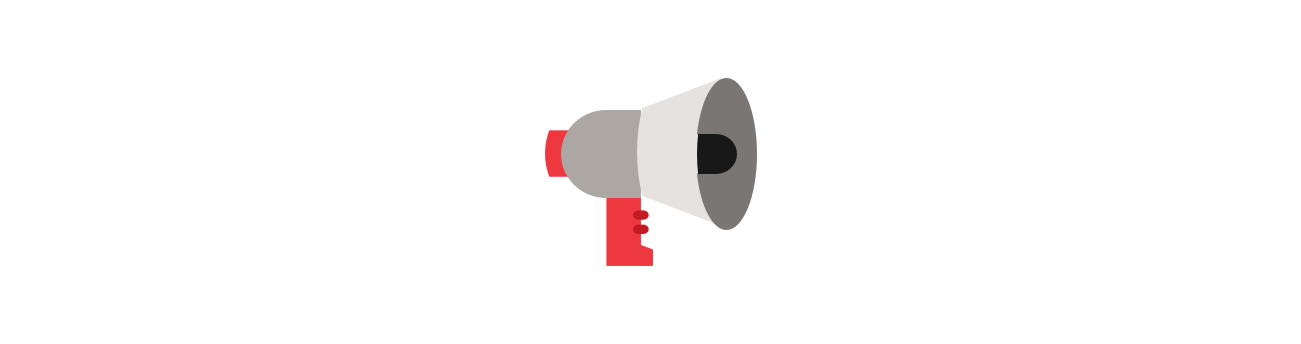
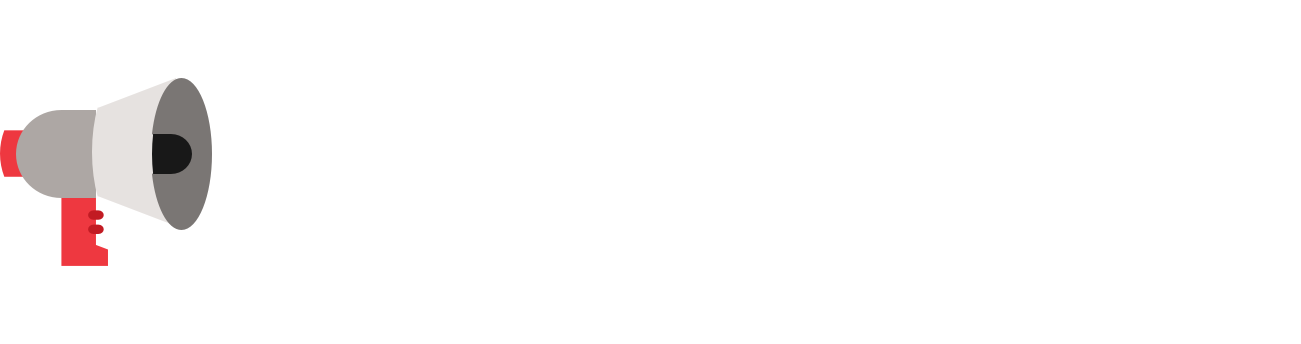
sherry publish

Changed region(s): [[0.0, 0.2326, 0.1845, 0.7849], [0.3997, 0.2326, 0.5842, 0.7849]]

diff --git a/_projects/2018-07-31-waking-up.md b/_projects/2018-07-31-waking-up.md
@@ -16,7 +16,7 @@ The <b>Waking Up</b> app is based on the smart home system. It's going to contro
 </p>
 
 
-![](/images/waking-up/1.jpg)
+![](/images/waking-up/header.png)
 
 
 
@@ -26,12 +26,16 @@ The <b>Waking Up</b> app is based on the smart home system. It's going to contro
 
 It is hard to <b> get out of your whole night sleep mode</b>. 
 <br>
+
 I still **have lots of stuff to do**
 <br>
+
 I **don't have a good mood** in dealing with these **daily-routines**
 <br>
+
 I always forget this or that, cause the **time is always in the rush**
 <br>
+
 The **living atmosphere** is **not motivated** and **humanized** enough for me to start a new day.
 
 <div class="gallery" data-columns="1">
@@ -88,22 +92,22 @@ The smart devices could be the **light, water boiler, google home, bathtub, oven
 
 ---
 
-<div class="gallery" data-columns="2">
-	<img src="//pro2-bar-s3-cdn-cf3.myportfolio.com/aff4a881fdbcdc5716b19e6a907e5a32/4d07c82c-658b-4072-a7e0-6de7f7f45c87_rw_1920.png?h=457d38a6c52a03846d95d4f11d90aa0c">
-	<img src="//pro2-bar-s3-cdn-cf5.myportfolio.com/aff4a881fdbcdc5716b19e6a907e5a32/665462a5-d2cf-4fdc-bb70-1361cc3db132_rw_1920.png?h=e72a51945935472e1acbeee355db74b6">
-	<img src="//pro2-bar-s3-cdn-cf4.myportfolio.com/aff4a881fdbcdc5716b19e6a907e5a32/543b5412-2f3b-43b4-a7ce-e19684cd2efa_rw_1920.png?h=9516d29c5e544c029bd0cbd88af551ff">
-	<img src="//pro2-bar-s3-cdn-cf6.myportfolio.com/aff4a881fdbcdc5716b19e6a907e5a32/05b3c730-ea53-4dfa-b668-b83e171c889d_rw_3840.jpg?h=23db9467ff043a74f0b9b9cbd5775a11">
-</div>
-
-
----
-
 <br>
 <br>
 ### Let's see what's in your Wonderful Morning!
-######  Scene 1:
 
-⏰ **SUNDAY, MARCH 10**
+###### Scene 1: Create a Routine
+#### ⏰ SUNDAY, MARCH 10
+
+It's my first time using "Waking Up", I'm gonna to create a morning routine for tomorrow!
+
+![](/images/waking-up/breakdown/breakdown-create.png)
+
+<br>
+<br>
+
+######  Scene 2: Preview Next Morning's Routine
+#### ⏰ SUNDAY, MARCH 10
 
 <div class="row fit">
 <div class="col-lg-3 col-sm-12">
@@ -120,42 +124,107 @@ The smart devices could be the **light, water boiler, google home, bathtub, oven
   </div>
  </div>
  
-⏰ **MONDAY, MARCH 11**
 
+#### ⏰ MONDAY, MARCH 11
 ###### It's 6:30 AM right now!
 
 ![](/images/waking-up/breakdown/breakdown-inprogressing.png)
 
----
+<br>
+<br>
 
-###### Scene 2:
-⏰ **MONDAY, MARCH 11**
+###### Scene 3: Change Routine
+#### ⏰ MONDAY, MARCH 11
 
 Tomorrow I <span style="color:#EA4B77"> plan to run</span> in the morning, so I need to <span style="color:#EA4B77"> change my routine</span>. And I need the <span style="color:#EA4B77"> memo </span> reminds me don't forget some necessary stuff for running.
 
 ![](/images/waking-up/breakdown/breakdown-routinekit.png)
 
-⏰ **MONDAY, MARCH 12**
+#### ⏰ MONDAY, MARCH 12
 ###### It's 7:30 AM right now!
 
-### Process
+![](/images/waking-up/breakdown/breakdown-run.png)
 
-To meet the users' needs, I embarked on a series of UX strategy and prototyping test. Together, I created a user flow which is based on user research to improve user experience.
+<br>
+<br>
+<br>
 
-It could be depart from three part, **"Homepage for new user"**, **"Modified the morning routine for tomorrow"** and  **"Add a New Routine"**
+---
+
+<br>
+
+### Visual Identity
+
+###### logo-construction
+![](/images/waking-up/icon/logo-construction.png)
+###### Symbol
+![](/images/waking-up/icon/symbol.png)
+###### Symbol & WordmarkGuidences
+![](/images/waking-up/icon/symbol&wordmarkGuidences.png)
+<br>
+<br>
+###### Illustrations Kit
+
+It was my first time drawing digital illustration, but I didn't design these illustrations ,just simulated the **Google illustrations** as reference, to make it match my design stylish. 
+
+![](/images/waking-up/illustrationKit.png)
+<br>
+<br>
+
+---
+
+<br>
+<br>
+### Some of my Working Process
+
+Thanks my professor Miguel and my classmates help me combing the flow’s logic and improving it day by day. 
+
+Initially, I’m not familiar with how the **smart devices work**, how to make a well-organized connection with them.
+
+To learn more about these products’**operate mechanism**. I made research and analysis existing products like “ IFTTT,” “Fabulous,” and “shortcuts.” It gave me a lot of ideas and inspirations as the reference.
+
+![](/images/waking-up/competitive product.png)
 
 
 <div class="gallery" data-columns="1">
+	<img style="width:900px" src="/images/waking-up/sketch/sketch1.png">
+	<img style="width:900px" src="/images/waking-up/sketch/sketch2.png">
+	<img style="width:900px" src="/images/waking-up/sketch/sketch3.png">
+	<img style="width:900px" src="/images/waking-up/sketch/sketch4.png">
+  </div>
+
+<div class="gallery" data-columns="3">
 	<img style="width:720px" src="/images/waking-up/homepage.png">
 	<img style="width:720px" src="/images/waking-up/addNew.png">
 	<img style="width:720px" src="/images/waking-up/modifyTomorrow.png">
 </div>
 
+
 <div class="gallery" data-columns="2">
-	<img style="width:720px" src="/images/waking-up/interaction-flow1.png">
-	<img style="width:720px" src="/images/waking-up/interaction-flow2.png">
+	<img style="width:720px" src="/images/waking-up/wireframe/wireframe1.png">
+
+   <img style="width:720px" src="/images/waking-up/wireframe/wireframe2.png">
 </div>
 
+
+
+<div class="gallery" data-columns="1">
+	<img style="width:1000px" src="/images/waking-up/others/font.png">
+	<img style="width:1000px" src="/images/waking-up/others/moodboard.png">
+   <img style="width:1000px" src="/images/waking-up/others/componentLearn.png">
+ </div>
+
+--- 
+
+<div class="gallery" data-columns="2">
+	<img src="//pro2-bar-s3-cdn-cf3.myportfolio.com/aff4a881fdbcdc5716b19e6a907e5a32/4d07c82c-658b-4072-a7e0-6de7f7f45c87_rw_1920.png?h=457d38a6c52a03846d95d4f11d90aa0c">
+	<img src="//pro2-bar-s3-cdn-cf5.myportfolio.com/aff4a881fdbcdc5716b19e6a907e5a32/665462a5-d2cf-4fdc-bb70-1361cc3db132_rw_1920.png?h=e72a51945935472e1acbeee355db74b6">
+	<img src="//pro2-bar-s3-cdn-cf4.myportfolio.com/aff4a881fdbcdc5716b19e6a907e5a32/543b5412-2f3b-43b4-a7ce-e19684cd2efa_rw_1920.png?h=9516d29c5e544c029bd0cbd88af551ff">
+	<img src="//pro2-bar-s3-cdn-cf6.myportfolio.com/aff4a881fdbcdc5716b19e6a907e5a32/05b3c730-ea53-4dfa-b668-b83e171c889d_rw_3840.jpg?h=23db9467ff043a74f0b9b9cbd5775a11">
+</div>
+
+
+---
 
 ### What about videos?
 

diff --git a/_illustrations/2017-06-30--0.md b/_illustrations/2017-06-30--0.md
@@ -1,0 +1,8 @@
+---
+title: 'Rochester Transit Diagram'
+subtitle: 'A hypothetical exploration to design a transit diagram for the city of Rochester.'
+date: 2015-06-30 00:00:00
+featured_image: '/images/illustrations/0.jpg'
+---
+
+![](/images/illustrations/0.jpg)

diff --git a/_illustrations/2018-08-19-1.md b/_illustrations/2018-08-19-1.md
@@ -1,0 +1,8 @@
+---
+title: 'Instrumentalist'
+subtitle: ' INSTRUMENT is a digital brand and experience innovation company with over 180 employees'
+date: 2019-08-30 00:00:00
+featured_image: '/images/illustrations/1.jpg'
+---
+
+![](/images/illustratios/1.jpgs)

diff --git a/_illustrations/2018-08-19-2.md b/_illustrations/2018-08-19-2.md
@@ -1,0 +1,8 @@
+---
+title: 'Instrumentalist'
+subtitle: ' INSTRUMENT is a digital brand and experience innovation company with over 180 employees'
+date: 2019-08-30 00:00:00
+featured_image: '/images/illustrations/2.jpg'
+---
+
+![](/images/illustrations/2.jpg)

diff --git a/_illustrations/2018-08-19-3.md b/_illustrations/2018-08-19-3.md
@@ -1,0 +1,8 @@
+---
+title: 'Instrumentalist'
+subtitle: ' INSTRUMENT is a digital brand and experience innovation company with over 180 employees'
+date: 2019-08-30 00:00:00
+featured_image: '/images/illustrations/3.jpg'
+---
+
+![](/images/illustrations/3.jpg)

diff --git a/_illustrations/2018-08-19-4.md b/_illustrations/2018-08-19-4.md
@@ -1,0 +1,8 @@
+---
+title: 'Instrumentalist'
+subtitle: ' INSTRUMENT is a digital brand and experience innovation company with over 180 employees'
+date: 2019-08-30 00:00:00
+featured_image: '/images/illustrations/4.jpg'
+---
+
+![](/images/illustrations/4.jpg)

diff --git a/_illustrations/2018-08-19-5.md b/_illustrations/2018-08-19-5.md
@@ -1,0 +1,8 @@
+---
+title: 'Instrumentalist'
+subtitle: ' INSTRUMENT is a digital brand and experience innovation company with over 180 employees'
+date: 2019-08-30 00:00:00
+featured_image: '/images/illustrations/5.jpg'
+---
+
+![](/images/illustrations/5.jpg)
